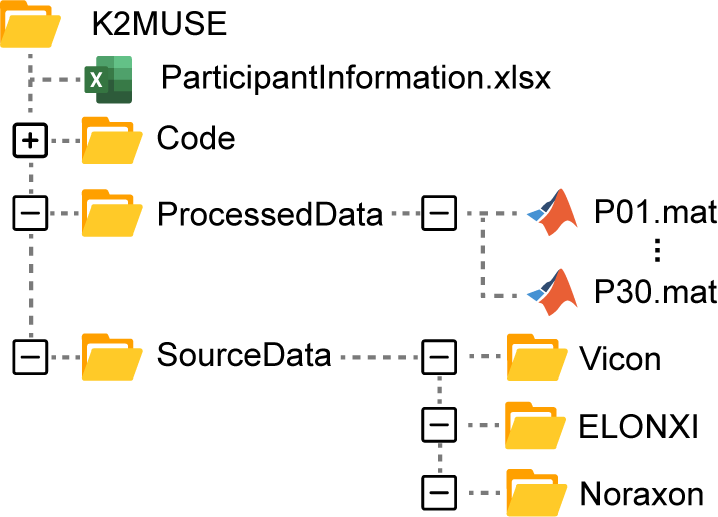
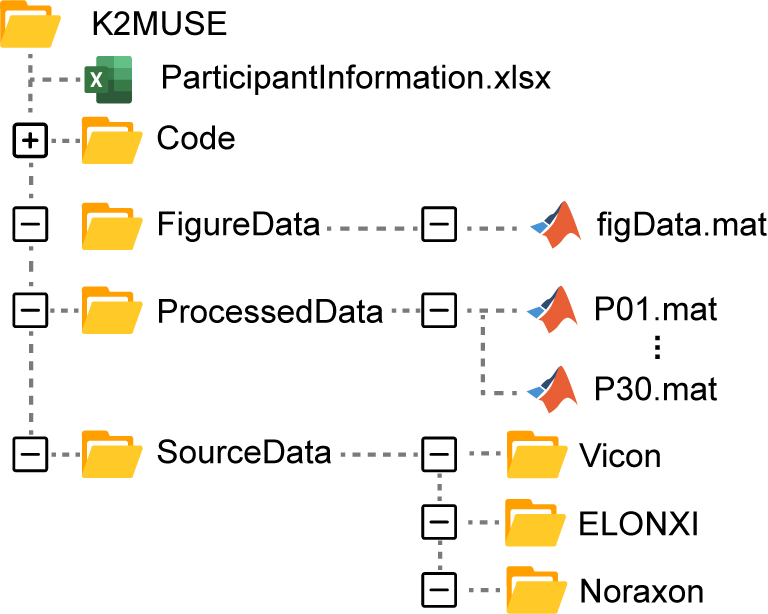
202503112252

Changed region(s): [[0.0, 0.0, 1.0, 1.0], [0.6128, 0.5571, 0.6435, 0.619], [0.6741, 0.5571, 0.7047, 0.588]]

diff --git a/pages/usage.md b/pages/usage.md
@@ -27,7 +27,7 @@ You can also open the \*.mat files by double-clicking them directly. Please note
 
 ## Load & Segment
 
-This script is used to read and parse raw data from SourceData. The loading of all modal data and gait normalization are processed through the MATLAB script “scriptProcess.mlx.”
+This script is used to read and parse raw data from SourceData. The loading of all modal data and gait normalization are processed through the MATLAB script “scriptProcess.mlx”.
 
 The parsing of “\*.c3d” files is achieved using the [Biomechanics ToolKit (BTK)](https://biomechanical-toolkit.github.io/docs/).
 

diff --git a/pages/datasets.md b/pages/datasets.md
@@ -345,7 +345,7 @@ permalink: "/datasets/"
 
 ### Figure Data
 
-    The "figData.mat" file in the folder is used by the "scriptPlot.mlx" script to plot the average joint angles and joint moments for all participants.
+　　The "figData.mat" file in the folder is used by the "scriptPlot.mlx" script to plot the average joint angles and joint moments for all participants.
 
 
 
